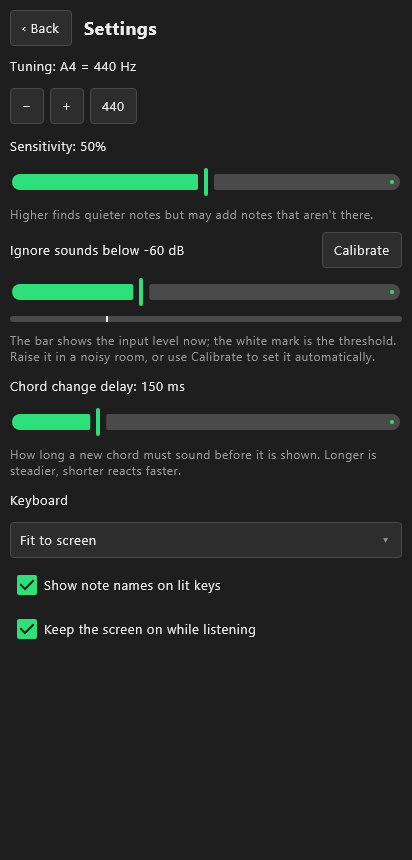
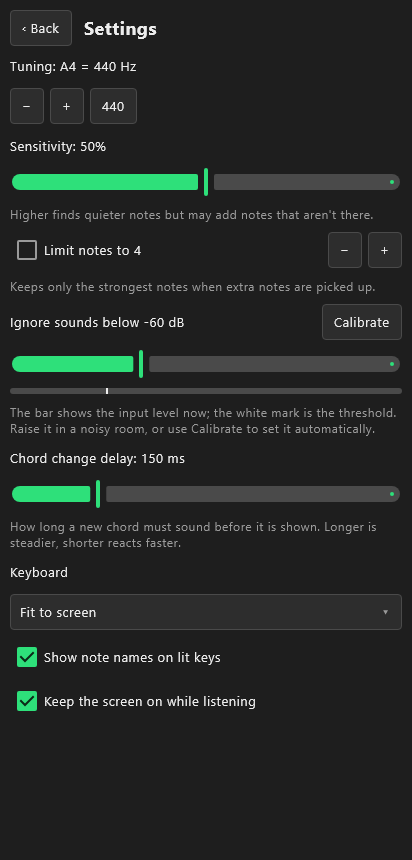
Added a notes limit setting

diff --git a/composeApp/src/commonMain/kotlin/app/dechorder/engine/ChordEngine.kt b/composeApp/src/commonMain/kotlin/app/dechorder/engine/ChordEngine.kt
@@ -15,6 +15,8 @@ data class EngineConfig(
     val sensitivity: Double = 0.5,
     val noiseGateDb: Double = -60.0,
     val changeDelayMs: Int = 150,
+    /** At most this many notes are reported (the strongest ones); null for no limit. */
+    val maxNotes: Int? = null,
 )
 
 /** A note currently sounding, with its relative strength 0..1. */
@@ -126,7 +128,9 @@ class ChordEngine(private val sampleRate: Int) {
     private fun analyze(config: EngineConfig): LiveState {
         val levelDb = Spectrum.rmsDb(frame, WINDOW - HOP, WINDOW)
         val frameDb = Spectrum.rmsDb(frame, WINDOW - WINDOW / 2, WINDOW)
-        val params = DetectionParams.forSensitivity(config.sensitivity)
+        val params = DetectionParams.forSensitivity(config.sensitivity).let { p ->
+            config.maxNotes?.let { p.copy(maxNotes = minOf(p.maxNotes, it.coerceAtLeast(1))) } ?: p
+        }
 
         val detected = if (filled >= WINDOW / 2 && frameDb >= config.noiseGateDb) {
             spectrum.analyze(frame)
@@ -167,7 +171,11 @@ class ChordEngine(private val sampleRate: Int) {
         }
         if (onset) framesSinceOnset = 0 else framesSinceOnset++
 
-        val notes = (0 until MIDI_NOTES).filter { active[it] }
+        var notes = (0 until MIDI_NOTES).filter { active[it] }
+        // Notes still fading from an earlier frame can add up to more than the limit; keep the strongest.
+        config.maxNotes?.let { limit ->
+            if (notes.size > limit) notes = notes.sortedByDescending { salience[it] }.take(limit.coerceAtLeast(1)).sorted()
+        }
         val maxSal = notes.maxOfOrNull { salience[it] }?.takeIf { it > 0 } ?: 1.0
         val weights = notes.map { (salience[it] / maxSal).coerceIn(0.0, 1.0) }
         settle(name(notes, weights), config)

diff --git a/composeApp/src/commonMain/kotlin/app/dechorder/ui/SettingsPanel.kt b/composeApp/src/commonMain/kotlin/app/dechorder/ui/SettingsPanel.kt
@@ -3,7 +3,9 @@ package app.dechorder.ui
 import androidx.compose.foundation.layout.Arrangement
 import androidx.compose.foundation.layout.Column
 import androidx.compose.foundation.layout.Row
+import androidx.compose.foundation.layout.Spacer
 import androidx.compose.foundation.layout.fillMaxWidth
+import androidx.compose.foundation.layout.width
 import androidx.compose.foundation.rememberScrollState
 import androidx.compose.foundation.verticalScroll
 import androidx.compose.material3.Text
@@ -55,6 +57,15 @@ internal fun SettingsPanel(platform: Platform, settings: AppSettings, state: Liv
         Text("Sensitivity: ${(settings.sensitivity * 100).roundToInt()}%", color = Palette.Text, fontSize = 13.sp)
         AccentSlider(settings.sensitivity, { settings.sensitivity = it }, 0f..1f, Modifier.fillMaxWidth())
         Hint("Higher finds quieter notes but may add notes that aren't there.")
+
+        Row(Modifier.fillMaxWidth(), verticalAlignment = Alignment.CenterVertically) {
+            CheckRow("Limit notes to ${settings.maxNotes}", settings.limitNotes, { settings.limitNotes = it },
+                Modifier.weight(1f))
+            FlatButton("−", { settings.maxNotes = (settings.maxNotes - 1).coerceAtLeast(MIN_NOTE_LIMIT) })
+            Spacer(Modifier.width(6.dp))
+            FlatButton("+", { settings.maxNotes = (settings.maxNotes + 1).coerceAtMost(MAX_NOTE_LIMIT) })
+        }
+        Hint("Keeps only the strongest notes when extra notes are picked up.")
 
         var calibrating by remember { mutableStateOf(false) }
         // While calibrating, push the threshold just above whatever the microphone hears. It only ever goes up,

diff --git a/composeApp/src/commonMain/kotlin/app/dechorder/ui/AppSettings.kt b/composeApp/src/commonMain/kotlin/app/dechorder/ui/AppSettings.kt
@@ -17,12 +17,18 @@ enum class KeyboardRange(val label: String, val low: Int, val high: Int) {
     KEYS_37("37 keys (C3–C6)", 48, 84),
 }
 
+/** Range of the "limit the number of notes" setting (the detector finds at most 8 notes anyway). */
+const val MIN_NOTE_LIMIT = 1
+const val MAX_NOTE_LIMIT = 8
+
 /** User settings, observable by Compose and saved as they change. */
 class AppSettings(private val store: KeyValueStore) {
     var a4 by pref("a4", 440, String::toIntOrNull)
     var sensitivity by pref("sensitivity", 0.5f, String::toFloatOrNull)
     var noiseGateDb by pref("noiseGateDb", -60f, String::toFloatOrNull)
     var changeDelayMs by pref("changeDelayMs", 150, String::toIntOrNull)
+    var limitNotes by pref("limitNotes", false, String::toBooleanStrictOrNull)
+    var maxNotes by pref("maxNotes", 4) { v -> v.toIntOrNull()?.coerceIn(MIN_NOTE_LIMIT, MAX_NOTE_LIMIT) }
     var keyboardRange by pref("keyboardRange", KeyboardRange.AUTO) { v -> KeyboardRange.entries.firstOrNull { it.name == v } }
     var showNoteNames by pref("showNoteNames", true, String::toBooleanStrictOrNull)
     /** Input device id; empty = the system default. */
@@ -34,6 +40,7 @@ class AppSettings(private val store: KeyValueStore) {
         sensitivity = sensitivity.toDouble(),
         noiseGateDb = noiseGateDb.toDouble(),
         changeDelayMs = changeDelayMs,
+        maxNotes = if (limitNotes) maxNotes else null,
     )
 
     private fun <T> pref(key: String, default: T, parse: (String) -> T?): ReadWriteProperty<Any?, T> =

diff --git a/composeApp/src/commonTest/kotlin/app/dechorder/DetectionTest.kt b/composeApp/src/commonTest/kotlin/app/dechorder/DetectionTest.kt
@@ -125,4 +125,21 @@ class DetectionTest {
         run(engine, Synth.notes(midis("C3", "E3", "G3"), 1.0))
         assertEquals("none", symbol(run(engine, Synth.silence(1.0)).last()))
     }
+
+    @Test
+    fun noteLimitKeepsTheStrongestNotes() {
+        val chord = midis("C3", "E3", "G3", "B3", "D4", "F#4")
+        val unlimited = listen(Synth.notes(chord, 1.0))
+        assertTrue(unlimited.notes.size > 4, "expected more than 4 notes without a limit: ${names(unlimited)}")
+        val limited = listen(Synth.notes(chord, 1.0), EngineConfig(maxNotes = 4))
+        assertEquals(4, limited.notes.size, "notes heard: ${names(limited)}")
+        assertTrue(names(limited).all { it in names(unlimited) }, "limited ${names(limited)} vs ${names(unlimited)}")
+    }
+
+    @Test
+    fun noteLimitAboveTheChordSizeChangesNothing() {
+        val state = listen(Synth.notes(midis("D3", "F3", "A3", "C4"), 1.0), EngineConfig(maxNotes = 4))
+        assertEquals("Dm7", symbol(state), "notes heard: ${names(state)}")
+        assertEquals(listOf("D3", "F3", "A3", "C4"), names(state))
+    }
 }

diff --git a/README.md b/README.md
@@ -7,7 +7,7 @@ codebase (Kotlin Multiplatform + Compose Multiplatform) and is fully offline.
 <table>
   <tr>
     <td><img src="resources/screenshot-phone.png" alt="Dechorder on a phone-sized screen, showing Dm7 with D, F, A and C lit on the keyboard" width="300"></td>
-    <td><img src="resources/screenshot-settings.png" alt="The Dechorder settings screen on a phone-sized screen, with tuning, sensitivity, noise threshold with a Calibrate button, chord change delay and keyboard options" width="300"></td>
+    <td><img src="resources/screenshot-settings.png" alt="The Dechorder settings screen on a phone-sized screen, with tuning, sensitivity, a note limit, noise threshold with a Calibrate button, chord change delay and keyboard options" width="300"></td>
   </tr>
 </table>
 
@@ -55,6 +55,8 @@ publishing.
 - **Input** (desktop): microphone or another capture device.
 - **Tuning**: reference A4 (415–466 Hz) for instruments not tuned to 440 Hz.
 - **Sensitivity**: higher finds quieter notes but may add notes that aren't there.
+- **Limit notes** (off by default): keeps only the strongest notes, 4 unless changed (1–8), for when
+  extra notes are picked up.
 - **Ignore sounds below**: noise gate; raise it in a noisy room.
 - **Chord change delay**: how long a new chord must sound before it is shown.
 - **Keyboard**: 37 to 88 keys, or fit to the screen; note names on lit keys. On a phone held upright the
